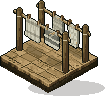
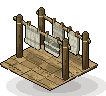
Eski süsler: kaide/karo kaldırıldı, kış ve gece sürümleri
odun, fici, kumes, agac1: yesil karo (ust yuzun disbukey zarfi + yan bant) silindi,
tavuk/kutuk gibi onde duranlar korundu. tezgah: koyu taban silindi. bostan,
camasir: yatak/guverte nesnenin parcasi, yalniz yukseltilmis yan yuzler silindi.
Nesne karo kalinligi kadar asagi indirildi, kesik yerde 1 px kontur, eski golge
yerine ic2 tarzi bantli golge. Tuval boyu ve alt orta nokta ayni (yerlesim degismez).
Dokuz eski susun hepsine ic2 yoluyla _karli ve _gece uretildi; yukle.js bunlari
yukler, varyant.js mevcut ks_<ad>_<hal> kuralıyla kullanir. Eskiler sus/eski/.
Bayrak, cesme, manken (ic2) kaideleri gercek parca, dokunulmadi.

diff --git a/motor-deneme-5b8e2f/js/yukle.js b/motor-deneme-5b8e2f/js/yukle.js
@@ -63,7 +63,11 @@ class YukleSahnesi extends Phaser.Scene {
       IcSusler.birlestir(KM, this.cache.json.get('kale_ic2'));
       IcSusler.varyantlariYukle(this, this.cache.json.get('kale_ic2'));
     }
-    for (const ad of new Set((KM.susler || []).map(s => s.ad))) this.load.image('ks_' + ad, 'assets/kale/sus/' + ad + '.png');
+    for (const ad of new Set((KM.susler || []).map(s => s.ad))) {
+      this.load.image('ks_' + ad, 'assets/kale/sus/' + ad + '.png');
+      // eski süslerin kış / gece görselleri (ic2 olanlar IcSusler.varyantlariYukle ile gelir)
+      if (!ad.startsWith('ic2/')) for (const v of ['karli', 'gece']) this.load.image('ks_' + ad + '_' + v, 'assets/kale/sus/' + ad + '_' + v + '.png');
+    }
     for (const [ad, m] of Object.entries(KM.koylu)) this.load.spritesheet(ad, 'assets/kale/' + ad + '.png', { frameWidth: m.fw, frameHeight: m.fh });
     this.load.once('complete', () => this.bitti(K, KM));
     this.load.start();

diff --git a/motor-deneme-5b8e2f/uretim/betikler/kaide.py b/motor-deneme-5b8e2f/uretim/betikler/kaide.py
@@ -1,0 +1,225 @@
+"""Remove the ground tile / plinth under the old inner-castle decorations (assets/kale/sus/*.png).
+
+The new ic2 props stand straight on the ground; the old PixelLab ones sit on a small isometric
+slab (grass top + dark sides). Per item:
+  cimen  (odun, fici, kumes, agac1): the green slab goes (green hue below the object's crown line),
+         plus the dark slab sides / outline touching it.
+  koyu   (tezgah): the dark grey-green base goes.
+  kenar  (bostan, camasir): the bed / deck is part of the object, only the raised slab sides go,
+         so it lies flat on the ground.
+Then: the object is moved down by the slab thickness (feet on the real ground), a 1 px dark outline
+closes the cut, the old shadow is replaced by the ic2-style banded shadow. Canvas size and the
+bottom-centre point stay the same, so kale.json placements do not move.
+
+  python kaide.py [ad ...]     -> D:/AI/son-kale-cikti/kaide/<ad>.png + karsilastirma
+"""
+import os
+import sys
+
+import numpy as np
+from PIL import Image, ImageDraw
+from scipy import ndimage
+
+SUS = "D:/AI/son-kale/motor-deneme-5b8e2f/assets/kale/sus"
+ORJ = "D:/AI/araclar/orijinal/sus"
+OUT = "D:/AI/son-kale-cikti/kaide"
+KONTUR = np.array([22, 17, 20], np.uint8)
+
+# kind, row from which the slab may be removed (above it: crown / object only), slab thickness
+AYAR = {
+    "odun": ("cimen", 0, 4),
+    "fici": ("cimen", 0, 4),
+    "kumes": ("cimen", 0, 4),
+    "agac1": ("cimen", 68, 4),
+    "tezgah": ("koyu", 0, 3),
+    "bostan": ("kenar", 0, 5),
+    "camasir": ("kenar", 0, 7),
+}
+
+
+def kaynak(ad):
+    os.makedirs(ORJ, exist_ok=True)
+    p = f"{ORJ}/{ad}.png"
+    if not os.path.exists(p):
+        Image.open(f"{SUS}/{ad}.png").save(p)
+    return np.asarray(Image.open(p).convert("RGBA"))
+
+
+def kaide_sil(ad):
+    kind, ust_sinir, kal = AYAR[ad]
+    a = kaynak(ad).copy()
+    H, W = a.shape[:2]
+    golge = (a[..., 3] > 0) & (a[..., 3] < 250)
+    a[golge] = 0                                   # old shadow: replaced at the end
+    dolu = a[..., 3] > 0
+    f = a[..., :3].astype(np.float32)
+    r, g, b = f[..., 0], f[..., 1], f[..., 2]
+    lum = f @ [0.299, 0.587, 0.114]
+    mx, mn = f.max(-1), f.min(-1)
+    sat = (mx - mn) / np.maximum(mx, 1)
+    alt = np.zeros((H, W), bool); alt[ust_sinir:] = True
+
+    if kind in ("cimen", "koyu"):
+        if kind == "cimen":
+            ust = dolu & alt & (g > r * 1.0) & (g > b * 1.15)
+        else:
+            alt3 = np.zeros((H, W), bool); alt3[int(H * 0.6):] = True
+            ust = dolu & alt3 & (lum < 72) & (sat < 0.38) & ~((r > g * 1.18) & (lum > 40))
+        lab, n = ndimage.label(ust)
+        if n:
+            boy = np.bincount(lab.ravel()); boy[0] = 0
+            ust &= (boy >= 25)[lab]
+        # slab region: convex hull of its top face, pushed down by the side thickness (+1 outline)
+        from scipy.spatial import ConvexHull
+        yy, xx = np.nonzero(ust)
+        pts = np.stack([xx, yy], 1)
+        hull = pts[ConvexHull(pts).vertices]
+        m = Image.new("L", (W, H), 0)
+        for d in range(0, kal + 5):
+            ImageDraw.Draw(m).polygon([(x, y + d) for x, y in hull], fill=255)
+        S = ndimage.binary_dilation(np.asarray(m) > 0, iterations=2) & alt   # + the slab's outer outline
+        # side colours: what is in S below the top face around the front corner (no object there)
+        alt_bant = S & ~ndimage.binary_dilation(ust, iterations=0) & ~ust
+        on_kose = np.zeros((H, W), bool)
+        cx = int(np.median(xx)); yb = yy.max()
+        on_kose[yb - 2:yb + kal + 3, max(0, cx - 30):cx + 30] = True
+        yan_renk = {tuple(c) for c in a[alt_bant & on_kose & dolu][:, :3]}
+        # a little wider: also colours within 6 of a sampled side colour
+        renk = a[..., :3].astype(int)
+        yan = np.zeros((H, W), bool)
+        for c in yan_renk:
+            yan |= np.abs(renk - np.array(c)).max(-1) <= 6
+        # the slab's own bottom outline: dark pixels in the lowest band of S
+        en_alt = S & ~np.roll(S, -3, axis=0)
+        karo_alt = en_alt & dolu & (lum < 80)
+        karo = karo_alt | S & dolu & (ust | yan | ((g > r * 1.0) & (g > b * 1.1)) | ((sat < 0.5) & (sat > 0.18) & (g >= r * 0.95) & (b < g * 0.8) & (lum > 120)))
+        # side faces: per column, the band right under the lowest top-face pixel
+        # light wood (stump), orange legs, white chickens are objects standing in front of the slab
+        koru = (((lum >= 80) & (r > g * 1.15)) | (lum > 170)) if ad in ON_NESNE else np.zeros((H, W), bool)
+        ustd = ndimage.binary_dilation(ust, iterations=1)
+        for x in np.nonzero(ustd.any(0))[0]:
+            y0 = np.nonzero(ustd[:, x])[0].max()
+            karo[y0 + 1:y0 + kal + 3, x] |= dolu[y0 + 1:y0 + kal + 3, x] & ~koru[y0 + 1:y0 + kal + 3, x]
+        a[karo] = 0
+        KESIK[ad] = S
+    else:
+        # flat bed/deck: remove what hangs below the top face = the side band. The top face's lower
+        # edges run from the left corner to the front corner to the right corner (2:1).
+        xs = np.nonzero(dolu.any(0))[0]
+        xl, xr = xs.min(), xs.max()
+        yl = np.nonzero(dolu[:, xl])[0].min()          # top of the left corner
+        yr = np.nonzero(dolu[:, xr])[0].min()
+        xx = np.arange(W)
+        cx = (xl + xr) / 2
+        # lower edge of the top face (left half goes down to the front, right half goes up)
+        kenar_y = np.where(xx <= cx, yl + (xx - xl) / 2, yr + (xr - xx) / 2) + 0.5
+        yy = np.arange(H)[:, None]
+        yan = dolu & (yy > kenar_y[None, :] + 1)
+        a[yan] = 0
+        KENAR[ad] = (xl, yl, xr, yr, cx)
+    # drop crumbs left behind: <10 px anywhere, <30 px inside the cut slab region (not chickens: white)
+    dolu = a[..., 3] > 0
+    lab, n = ndimage.label(dolu)
+    if n:
+        boy = np.bincount(lab.ravel()); boy[0] = 0
+        kirinti = (boy < 10)[lab] & dolu
+        if ad in KESIK:
+            beyaz = np.zeros(n + 1, bool)
+            np.maximum.at(beyaz, lab.ravel(), (lum.ravel() > 170))
+            kirinti |= ((boy < 30) & ~beyaz)[lab] & dolu & KESIK[ad]
+        a[kirinti] = 0
+    # move down by the slab thickness: the feet stood on the slab top
+    a = np.roll(a, kal, axis=0)
+    a[:kal] = 0
+    # 1 px dark outline under the new bottom silhouette
+    dolu = a[..., 3] > 0
+    alt_k = np.zeros_like(dolu); alt_k[1:] = dolu[:-1]
+    alt_k &= ~dolu
+    yan_k = np.zeros_like(dolu); yan_k[:, 1:] |= dolu[:, :-1]; yan_k[:, :-1] |= dolu[:, 1:]
+    yan_k &= ~dolu
+    if ad in KESIK:
+        kesik = np.roll(KESIK[ad], kal, axis=0)
+    else:
+        kesik = np.zeros_like(dolu); kesik[int(H * 0.5):] = True
+    kon = (alt_k | yan_k) & kesik
+    # do not thicken an outline that is still there
+    kon &= ~ndimage.binary_dilation((a[..., :3].astype(int).sum(-1) < 120) & dolu, iterations=1)
+    a[kon, :3] = KONTUR
+    a[kon, 3] = 255
+    NESNE[ad] = a.copy()
+    return golge_ciz(a)
+
+
+KENAR = {}
+NESNE = {}   # object without shadow (for the winter / night versions)
+KESIK = {}
+ON_NESNE = {"odun", "kumes"}   # something stands in front of the slab (stump, chickens)
+
+
+def golge_ciz(a, guc=78):
+    """ic2-style banded elliptical shadow (light top left), inside the same canvas."""
+    H, W = a.shape[:2]
+    dolu = a[..., 3] > 0
+    cols = np.nonzero(dolu.any(0))[0]
+    rows = np.nonzero(dolu.any(1))[0]
+    base_w = cols.max() - cols.min() + 1
+    ew, eh = base_w * 0.55, max(3, base_w * 0.16)
+    cx = (cols.min() + cols.max()) / 2 + base_w * 0.08
+    cy = min(rows.max() - eh * 0.2, H - 1 - eh * 0.6)
+    yy, xx = np.mgrid[0:H, 0:W]
+    d = ((xx - cx) / ew) ** 2 + ((yy - cy) / eh) ** 2
+    alpha = np.clip(1.0 - d, 0, 1) ** 0.8 * guc
+    alpha = (np.round(alpha / 26) * 26).clip(0, guc)
+    sh = np.zeros((H, W, 4), np.uint8)
+    sh[..., :3] = (36, 28, 22)
+    sh[..., 3] = alpha.astype(np.uint8)
+    canvas = Image.fromarray(sh, "RGBA")
+    canvas.alpha_composite(Image.fromarray(a, "RGBA"))
+    return canvas
+
+
+def karsilastir(adlar, yol):
+    tiles = []
+    for ad in adlar:
+        eski = Image.fromarray(kaynak(ad), "RGBA")
+        yeni = Image.open(f"{OUT}/{ad}.png")
+        w, h = eski.size
+        t = Image.new("RGBA", (2 * w + 12, h + 4), (96, 120, 64, 255))
+        t.alpha_composite(eski, (0, 2)); t.alpha_composite(yeni, (w + 12, 2))
+        tiles.append(t)
+    W = max(t.width for t in tiles); H = sum(t.height + 6 for t in tiles)
+    S = Image.new("RGBA", (W, H), (40, 40, 40, 255)); y = 0
+    for t in tiles:
+        S.alpha_composite(t, (0, y)); y += t.height + 6
+    S.resize((S.width * 3, S.height * 3), Image.Resampling.NEAREST).save(yol)
+
+
+TUM = ["agac1", "agac2", "bostan", "camasir", "fici", "kumes", "odun", "samanaraba", "tezgah"]
+
+
+def varyantlar(ad):
+    """_karli / _gece like the ic2 props (uyum.py): snow on top surfaces / night grade, then shadow."""
+    sys.path.insert(0, os.path.dirname(os.path.abspath(__file__)))
+    import bina
+    if ad in AYAR:
+        a = NESNE[ad]
+    else:
+        a = kaynak(ad).copy()
+        a[(a[..., 3] > 0) & (a[..., 3] < 250)] = 0
+    im = Image.fromarray(a, "RGBA")
+    k = np.asarray(bina.karla_ust(im, 0.42 if ad.startswith("agac") else 0.35))
+    golge_ciz(k).save(f"{OUT}/{ad}_karli.png")
+    golge_ciz(np.asarray(bina.gecele(im, isik_v=0.9, isik_s=0.65)), 70).save(f"{OUT}/{ad}_gece.png")
+    if ad not in AYAR:
+        golge_ciz(a).save(f"{OUT}/{ad}.png")
+
+
+if __name__ == "__main__":
+    adlar = sys.argv[1:] or TUM
+    os.makedirs(OUT, exist_ok=True)
+    for ad in adlar:
+        if ad in AYAR:
+            kaide_sil(ad).save(f"{OUT}/{ad}.png")
+        varyantlar(ad)
+    karsilastir(adlar, f"{OUT}/_karsilastirma.png")
+    print("ok")
